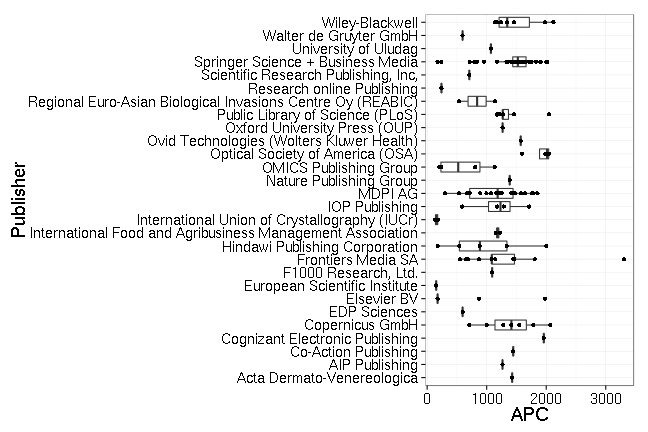
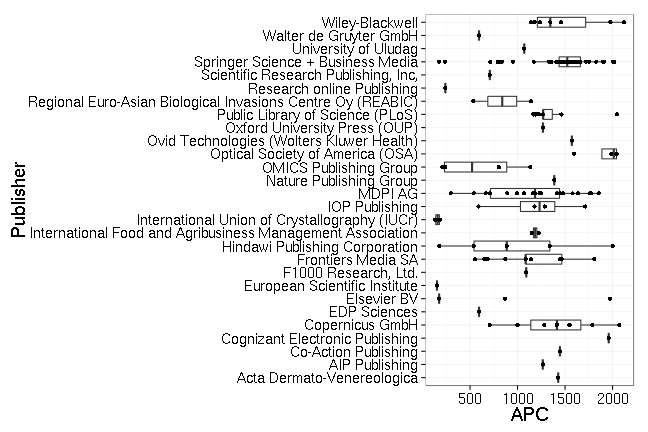
post for TUM updated

diff --git a/_posts/2016-04-26-tum.md b/_posts/2016-04-26-tum.md
@@ -21,7 +21,7 @@ Contact person is [Inga Larres](mailto:open-access@ub.tum.de).
 
 
 
-The new dataset covers publication fees for 205 articles, which the fund covered in 2015 so far. Total expenditure amounts to 268 532€ and the average fee is 1 310€.
+The new dataset covers publication fees for 205 articles, which the fund covered in 2015 so far. Total expenditure amounts to 267 032€ and the average fee is 1 303€.
 
 The following table shows the payments [TUM University Library](http://www.ub.tum.de/en) has made to publishers in 2015.
 
@@ -30,7 +30,7 @@ The following table shows the payments [TUM University Library](http://www.ub.tu
 |:----------------------------------------------------------|--------:|-----------------:|-------------:|
 |Springer Science + Business Media                          |       80|            117292|          1466|
 |Public Library of Science (PLoS)                           |       35|             46737|          1335|
-|Frontiers Media SA                                         |       29|             37886|          1306|
+|Frontiers Media SA                                         |       29|             36386|          1255|
 |MDPI AG                                                    |       14|             17280|          1234|
 |Elsevier BV                                                |       11|              3725|           339|
 |Copernicus GmbH                                            |        6|              8388|          1398|
